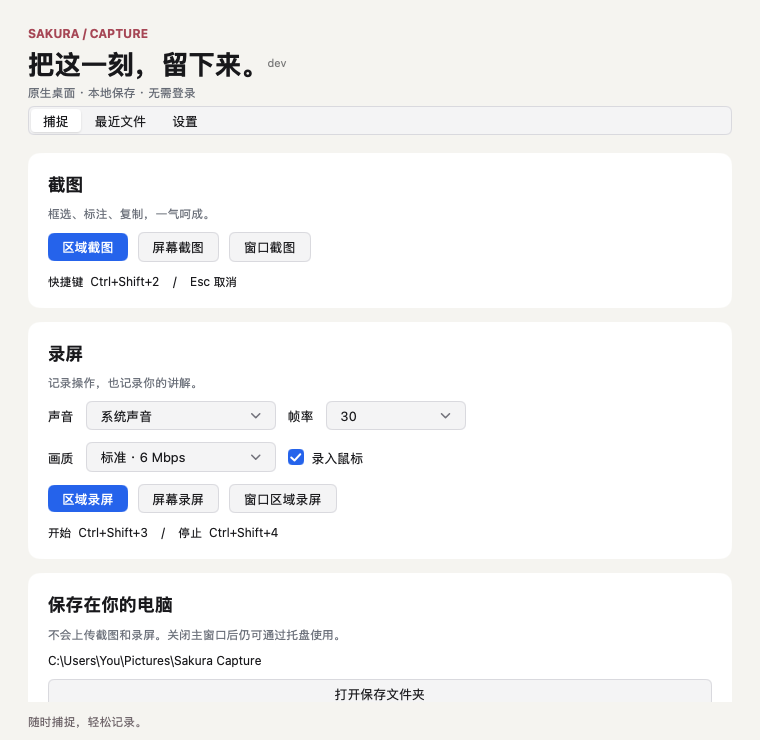
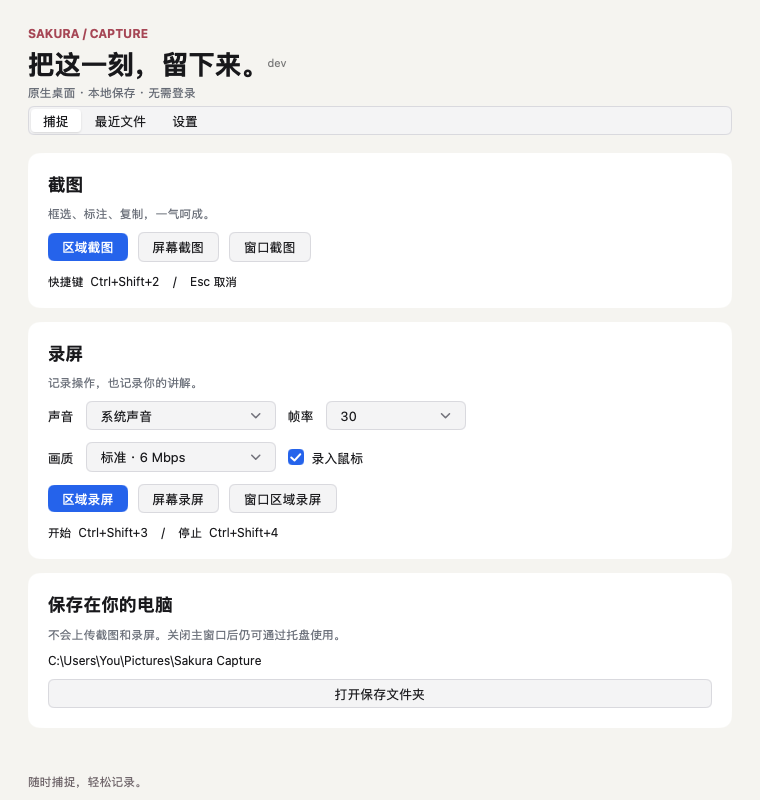
Localize screenshot editor and refine portable documentation

diff --git a/native/snip.cpp b/native/snip.cpp
@@ -262,9 +262,9 @@ struct Editor {
             FillRect(buffer.dc, &bar, dark);
             DeleteObject(dark);
             buttons.clear();
-            std::vector<std::wstring> names = {L"Rect", L"Arrow",    L"Pen",   L"Mosaic",
-                                               L"Text", L"Color",    L"Width", L"Undo",
-                                               L"Redo", L"Reselect", L"Save",  L"Cancel"};
+            std::vector<std::wstring> names = {L"矩形", L"箭头", L"画笔", L"马赛克",
+                                               L"文字", L"颜色", L"线宽", L"撤销",
+                                               L"重做", L"重选", L"保存", L"取消"};
             int cell = (bar.right - bar.left) / 12;
             for (int i = 0; i < 12; i++) {
                 RECT r{bar.left + i * cell, bar.top, bar.left + (i + 1) * cell, bar.top + 38};
@@ -283,16 +283,15 @@ struct Editor {
             RECT help{bar.left + 10, bar.top + 40, bar.right, bar.bottom};
             std::wstring text = std::to_wstring(selection.right - selection.left) + L" x " +
                                 std::to_wstring(selection.bottom - selection.top) +
-                                L"   Enter: save + copy   Ctrl+Z/Y: undo/redo   Esc: cancel";
+                                L"   Enter 保存并复制   Ctrl+Z/Y 撤销/重做   Esc 取消";
             DrawTextW(buffer.dc, text.c_str(), -1, &help, DT_LEFT | DT_VCENTER | DT_SINGLELINE);
         } else {
             RECT r{20, 20, std::min(w - 20, 880), 65};
             HBRUSH dark = CreateSolidBrush(RGB(35, 35, 41));
             FillRect(buffer.dc, &r, dark);
             DeleteObject(dark);
-            std::wstring text = mode == L"region"
-                                    ? L"Drag to select a region. Esc to cancel."
-                                    : L"Click a screen/window to select. Esc to cancel.";
+            std::wstring text = mode == L"region" ? L"拖动选择区域，按 Esc 取消。"
+                                                  : L"点击选择屏幕或窗口，按 Esc 取消。";
             r.left += 14;
             DrawTextW(buffer.dc, text.c_str(), -1, &r, DT_LEFT | DT_VCENTER | DT_SINGLELINE);
         }

diff --git a/preview_test.go b/preview_test.go
@@ -21,7 +21,7 @@ func TestPreview(t *testing.T) {
 	for tab, name := range []string{"capture", "history", "settings"} {
 		a := &application{store: core.Defaults(), status: "随时捕捉，轻松记录。", tab: tab}
 		a.store.Config.Directory = `C:\Users\You\Pictures\Sakura Capture`
-		tt := ui.NewTester(a.view, 760, 740)
+		tt := ui.NewTester(a.view, 760, 800)
 		f, e := os.Create(filepath.Join(dir, name+".png"))
 		if e != nil {
 			t.Fatal(e)

diff --git a/docs/USER_GUIDE.zh-CN.md b/docs/USER_GUIDE.zh-CN.md
@@ -11,10 +11,10 @@
 - 点击“区域截图”或按 `Ctrl+Shift+2`，拖动选择区域。
 - “屏幕截图”：移动鼠标到目标显示器，点击选择。
 - “窗口截图”：鼠标指向目标窗口，点击选择其可见屏幕范围。
-- 选区完成后出现标注工具栏。点击 Rect 矩形、Arrow 箭头、Pen 画笔、Mosaic 马赛克、Text 文字；Text 模式下点击画面后输入文字。
-- Color 切换颜色；Width 切换线宽；Undo/Redo 撤销与重做；Reselect 重新框选。
-- Enter 或 Save 保存 PNG 并复制图片到剪贴板。保存目录由主界面设置决定。
-- Esc 或 Cancel 取消；右键返回重新框选，再次右键取消。
+- 选区完成后出现标注工具栏。点击 矩形、箭头、画笔、马赛克、文字；文字模式下点击画面后输入文字。
+- “颜色”切换颜色；“线宽”切换线宽；“撤销/重做”恢复操作；“重选”重新框选。
+- Enter 或“保存” 保存 PNG 并复制图片到剪贴板。保存目录由主界面设置决定。
+- Esc 或“取消” 取消；右键返回重新框选，再次右键取消。
 - Ctrl+Z 撤销、Ctrl+Y 重做、Ctrl+S/C 保存并复制。
 - 输出仅包含选区，不包含选区边框和工具栏。马赛克烘焙到图片像素。
 
@@ -25,7 +25,7 @@
 1. 选择声音：无声音、系统声音、麦克风或系统＋麦克风。声音来源是 Windows 默认设备。
 2. 选择 15/30/60 FPS 和码率档位。建议先用 30 FPS、标准画质。
 3. 点击“区域录屏”“屏幕录屏”或“窗口区域录屏”，选择范围。
-4. 根据设置等待 0/3/5 秒，出现录制控制条后开始录制。
+4. 根据设置等待 0/3/5 秒（倒计时期间可取消），出现录制控制条后开始录制。
 5. 控制条可以暂停、继续，或停止并保存。也可按 `Ctrl+Shift+4` 停止。
 6. 等待 MP4 封装完成，程序回到主界面；在“最近文件”打开录像。
 
